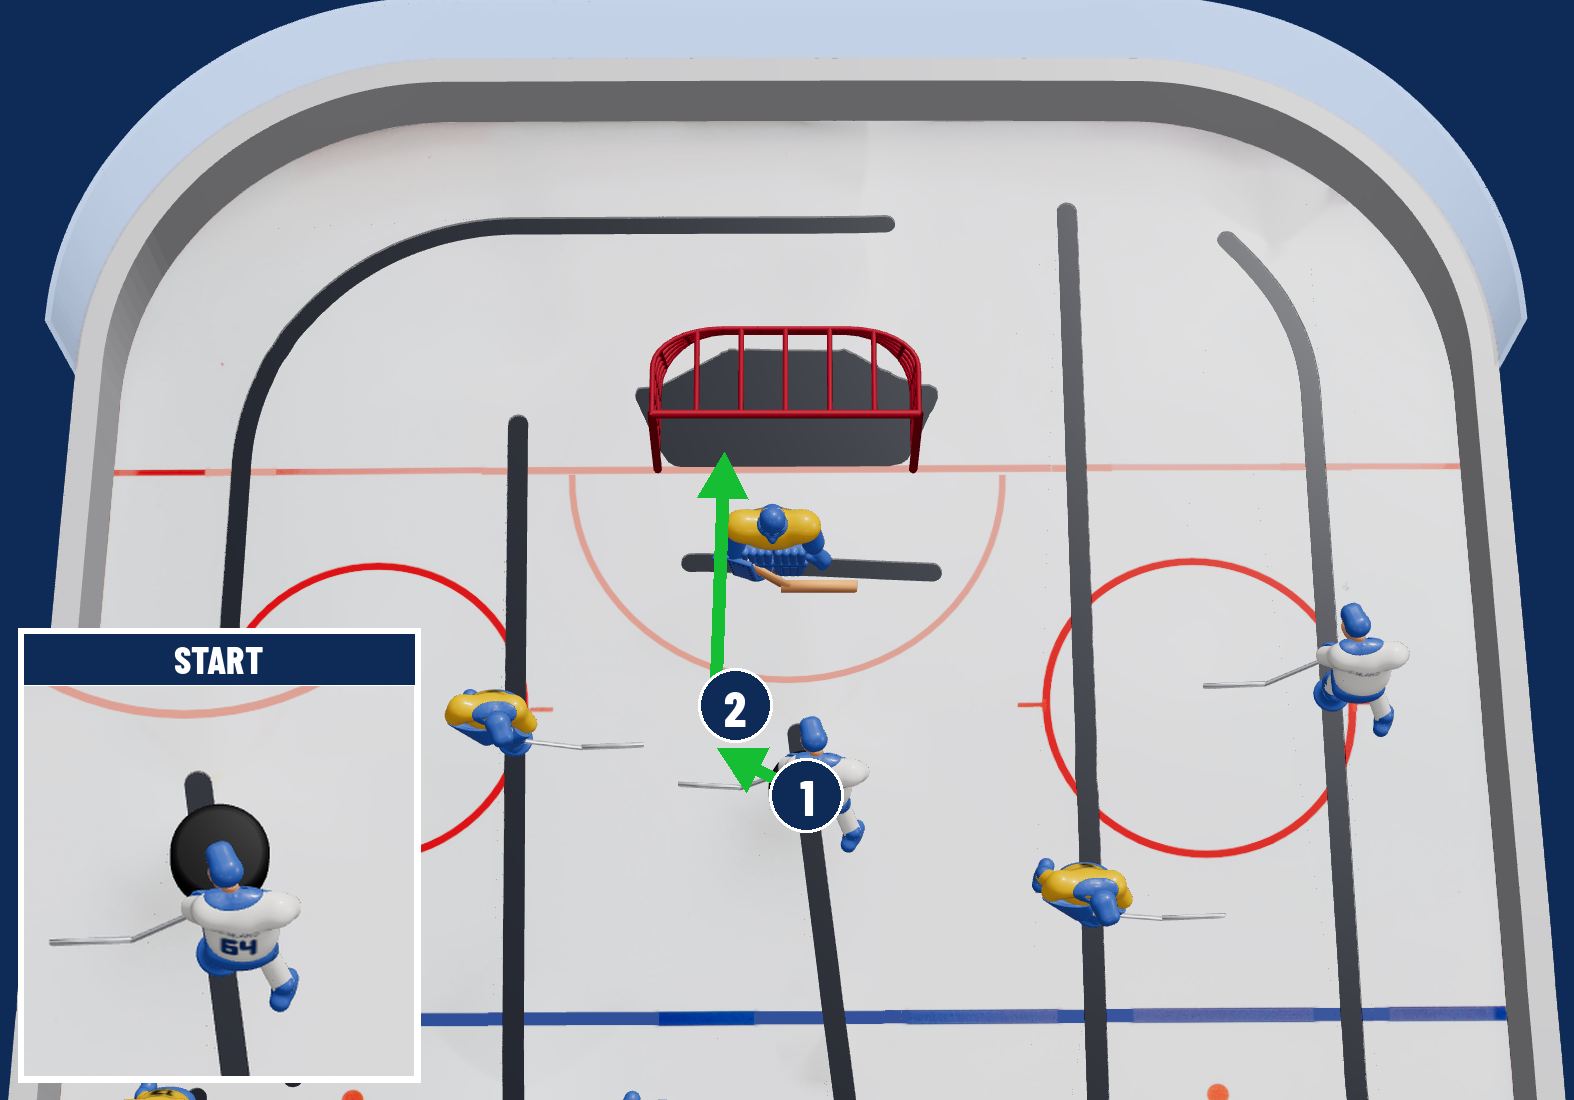
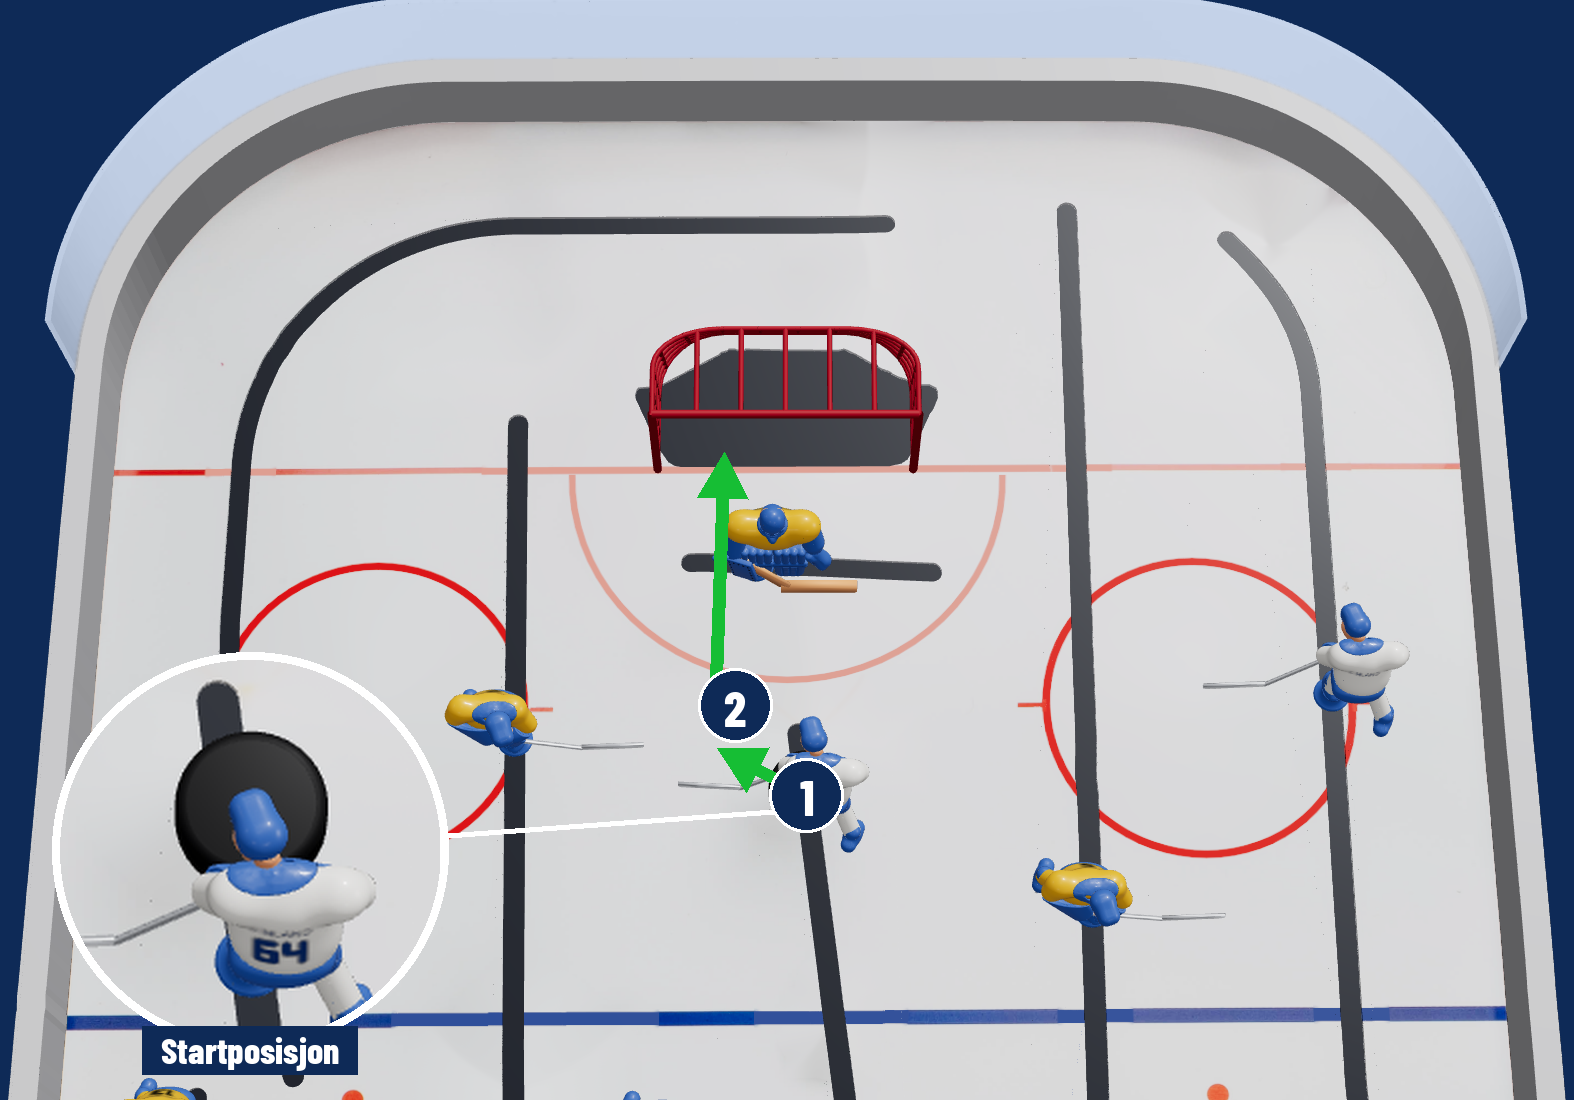
Move pictures: fakie start position as a Startposisjon magnifier bubble
Claude-Session: https://claude.ai/code/session_01BNTiwfvDFK1dJGset6TA2u

Changed region(s): [[0.0, 0.5564, 0.4358, 0.9891], [0.467, 0.7109, 0.4981, 0.7418]]

diff --git a/scripts/move-pictures/build.py b/scripts/move-pictures/build.py
@@ -360,14 +360,28 @@ def draw(spec, geo):
     W, H = base.width + MARGIN_L, base.height
     im = Image.new("RGB", (W, H), NAVY)
     im.paste(base, (MARGIN_L, 0))
-    inset = None
-    if "ghost" in geo:  # the start position as a close-up inset (a blended ghost was hard to read, user 2026-10-14)
+    if "ghost" in geo:
+        # the start position as a magnifier bubble with a leader line to the spot (user's choice 2026-10-14; a blended
+        # ghost was hard to read). No ring at the spot itself: it looked messy over the figure at the trick.
         gb = Image.open(OUT / f"{spec['id']}-ghost-base.png").convert("RGB")
         gx, gy = to_px(geo, geo["ghost"]["figure_mm"])
         px, py = to_px(geo, geo["ghost"]["puck_mm"])
         cx, cy = (gx + px) / 2 - MARGIN_L, (gy + py) / 2 - 20
-        half = 150
-        inset = gb.crop((int(cx - half), int(cy - half), int(cx + half), int(cy + half))).resize((390, 390), Image.LANCZOS)
+        R, zoom_half = 190, 95
+        bub = gb.crop((int(cx - zoom_half), int(cy - zoom_half), int(cx + zoom_half), int(cy + zoom_half))).resize((2 * R, 2 * R), Image.LANCZOS)
+        bmask = Image.new("L", (2 * R, 2 * R), 0)
+        ImageDraw.Draw(bmask).ellipse([0, 0, 2 * R, 2 * R], fill=255)
+        bx, by = MARGIN_L + 250, H - R - 60
+        dd = ImageDraw.Draw(im)
+        u = np.array([cx + MARGIN_L - bx, cy - by], float)
+        u /= max(np.linalg.norm(u), 1e-9)
+        dd.line([(bx + u[0] * (R + 8), by + u[1] * (R + 8)), (cx + MARGIN_L, cy)], fill=(255, 255, 255), width=6)
+        dd.ellipse([bx - R - 8, by - R - 8, bx + R + 8, by + R + 8], fill=(255, 255, 255))
+        im.paste(bub, (bx - R, by - R), bmask)
+        f = ImageFont.truetype(FONT, 36)
+        tw = dd.textlength("Startposisjon", font=f) + 36
+        dd.rectangle([bx - tw / 2, by + R - 14, bx + tw / 2, by + R + 34], fill=NAVY)
+        dd.text((bx, by + R + 10), "Startposisjon", font=f, fill=(255, 255, 255), anchor="mm")
     d = ImageDraw.Draw(im)
     r = 34
     if "ghost" in geo:
@@ -395,12 +409,6 @@ def draw(spec, geo):
         arrow(d, P, 13, GREEN, 46, cut_s, cut_e)
     for k, p in marks.items():
         badge(d, p, k, r)
-    if inset is not None:
-        x0, y0, bw = MARGIN_L + 24, H - inset.height - 24, 6
-        d.rectangle([x0 - bw, y0 - 52 - bw, x0 + inset.width + bw, y0 + inset.height + bw], fill=(255, 255, 255))
-        im.paste(inset, (x0, y0))
-        d.rectangle([x0, y0 - 52, x0 + inset.width, y0 - 2], fill=NAVY)
-        d.text((x0 + inset.width / 2, y0 - 27), "START", font=ImageFont.truetype(FONT, 38), fill=(255, 255, 255), anchor="mm")
     VAL.mkdir(parents=True, exist_ok=True)
     out = VAL / f"{spec['id']}.png"
     im.save(out, optimize=True)

diff --git a/docs/move-pictures.md b/docs/move-pictures.md
@@ -113,9 +113,9 @@ Six pictures redrawn after the user's comments on the review page:
 On the page the redone moves go back to "not reviewed" with the user's comment kept and a "Redrawn" note.
 - Start position of the fakie centre tricks (user's choice 2026-10-14, "ghost + dashed"): spec field `ghost` (figure,
   facing, puck in the start groove). `build.py` adds a second render job `<id>-ghost` with the figure at its start, and
-  `--draw` shows that start as a close-up inset marked START in the bottom-left corner (a first version blended a
-  50 % ghost into the picture; the user found it hard to read), with a dashed grey arrow from the start puck to contact 1
-  when the start and the trick are apart. For the fakie centre tricks the ghost is the centre
+  `--draw` shows that start as a magnifier bubble labelled "Startposisjon" in the bottom-left corner, with a white
+  leader line to the start spot and no ring at the spot (user's choice 2026-10-14 among four layouts; a blended 50 %
+  ghost was hard to read, and a ring over the centre looked messy). For the fakie centre tricks the ghost is the centre
   right behind the centred puck, facing forward (ASSUMED); the solid figure is the centre turned into the trick.
 - The 0-9 level scale on the left was dropped from every picture (user, 2026-10-14); the level stays in the specs and on
   the review page.
